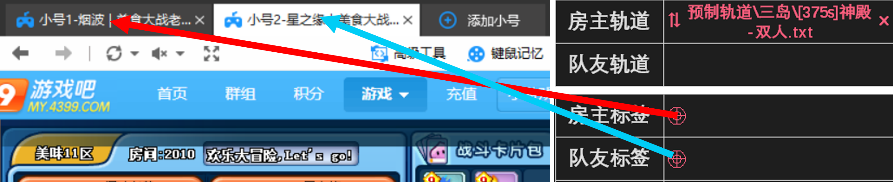
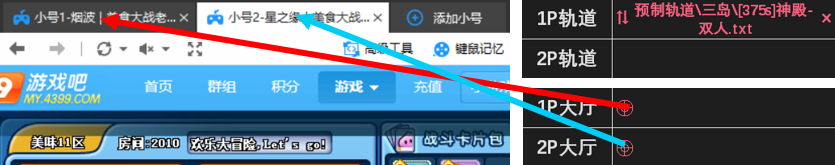
Track-Web 0.8.5

diff --git a/docs/.vuepress/navbar.ts b/docs/.vuepress/navbar.ts
@@ -14,5 +14,6 @@ export const navbar = defineNavbarConfig([
       { text: '第 5 章 执行器高级操作', link: '/notes/guide/Ch5/README.md' },
     ]
   },
+  { text: '帮助文档', link: 'https://doc.mstrack.cn/download/使用手册.pdf' },
   { text: '精华消息', link: '/notes/message/README.md' },
 ])

diff --git a/docs/.vuepress/theme/styles/custom.css b/docs/.vuepress/theme/styles/custom.css
@@ -63,3 +63,8 @@
   justify-content: center; /* 水平居中 */
   gap: 4px;               /* 图标与文字间距 */
 }
+
+.vp-home-hero.full {
+  display: flex; 
+  height: 500px !important;
+}

diff --git a/docs/notes/guide/Ch3/3.2.md b/docs/notes/guide/Ch3/3.2.md
@@ -10,8 +10,7 @@ permalink: /guide/f0kz7lyd/
 ![](./picture/3.2.0.1.png)
 
 ### 3.2.1 基本用法
-- 1. 设置好每项任务的轨道和卡组，然后抓取 1P 和 2P 的标签，在任意岛屿启动任务。程序将<span style="color: red;">依次执行每项勾选的任务</span>。支持的任务类型有：悬赏、勇士、跨服、魔塔、副本（假期/公会）、任务（公会/情侣/大赛）、主线（美味至星际）、番外（营地/沙漠/雷城/雪山/奇境）、
-特殊（签到/施肥/清包/双倍卡）。任务列表基本操作如下表：
+- 1. 设置好每项任务的轨道和卡组，然后抓取 1P 和 2P 的标签，在任意岛屿启动任务。程序将<span style="color: red;">依次执行每项勾选的任务</span>。支持的任务类型有：<span style="color: #0070C0;">悬赏、勇士、跨服、魔塔（含宠塔）、副本（假期/公会/巅峰对决）、任务（公会/情侣/大赛）、主线（美味至星际）、番外（营地/沙漠/雷城/雪山/奇境）、特殊（签到/施肥/清包/双倍卡）</span>。任务列表基本操作如下表：
 
 <table>
 <thead>
@@ -89,38 +88,45 @@ permalink: /guide/f0kz7lyd/
 
 - 6. 执行器右侧的 <img src="./picture/3.2.1.5.png" alt="" width="80" height="25"> 按钮可以为所有任务填写通用轨道。通用轨道所需卡槽截图均已内置，可直接使用空卡组全自动带卡。
 
-- 7. 高级任务可以同时执行 5 组，点击两侧箭头即可切换。点击任务名称可以修改。
+- 7. 执行器右侧的 <img src="./picture/3.2.1.6.png" alt="" width="80" height="25"> 按钮可以检查完成整个列表需要的钥匙、徽章和防御卡（不包含公会、情侣、大赛这三类需要识别的任务）。
 
-![](./picture/3.2.1.6.png)
+- 8. 高级任务可以同时执行 5 组，点击两侧箭头即可切换。点击任务名称可以修改。
+
+:::center
+![](./picture/3.2.1.7.png)
+:::
 
 - 如果还不够用，将整个轨道文件夹复制一份，即可同时启动不同文件夹中的执行器。
 
-### 3.2.2 签到施肥
+### 3.2.2 签到施肥（含温馨礼包）
 
 - 添加高级任务“特殊-签到”或“特殊-施肥”，房主、局数、轨道不用填写：
 
 ![](./picture/3.2.2.1.png)
 
-- 卡组“√”“×”表示该账号是否执行。签到包含每日签到和 VIP 签到，施肥包含浇水。
+- 卡组“√”“×”表示该账号是否执行。签到包含<span style="color: red;">每日签到、VIP签到、日常任务领奖和领取温馨礼包</span>，“施肥”包含<span style="color: red;">浇水和施肥</span>。
+
+- 领取温馨礼包前需要点击“点此设置温馨礼包”填写openid。进入公众号“美食大战老鼠”，打开“美食中心”（左图），点击右上角“...”，选择“复制链接”，将链接中“openid=”后面的字母填入温馨礼包设置面板（右图）。最多可以填写10个openid。
+
+<img src="./picture/3.2.2.2.png" alt="" width="208" height="268"><img src="./picture/3.2.2.3.png" alt="" width="525" height="235">
+
+- openid支持自定义。例如玩家想绑定<span style="color: red;">“1234579”</span>这个openid，只需用浏览器打开网址http://meishi.wechat.123u.com/meishi/index?openid=<span style="color: red;">1234579</span>，然后按提示绑定账号即可。
 
 ### 3.2.3 清理背包
 
-- 添加高级任务“特殊-清包”，即可自动清理背包空间，以免各项任务无法领取奖励。
+- 添加高级任务“特殊-清包”，即可自动清理背包空间（包括<span style="color: red;">删除道具</span>和<span style="color: red;">分解0星宝石</span>），以免各项任务无法领取奖励。如果账号有二级密码，请点击顶部“无二级密码”进行填写。
 
 ![](./picture/3.2.3.1.png)
 
-- 如果账号有二级密码，请点击顶部“无二级密码”进行填写。
-::: info 清包任务执行流程如下：
-1. 刷新游戏防止卡顿。
-2. 删除背包无用道具。
-3. 分解无用 0 星宝石（第 2/3 步若触发二级密码将自动输入）。
-4. 若后面还有任务，刷新后再执行，以恢复二级密码保护。
-:::
 - 在<span style="color: red;">用户参数\可删物品</span>文件夹内有截图的物品才会删除、分解。软件内置了 9 种可分解宝石的截图（如下图），其他需要删除的物品请用<span style="color: red;">用户参数\综合截图工具.exe </span>自行截图。
 
 ![](./picture/3.2.3.2.png)
 
 - 安全起见，请把贵重物品（如进化凭证）存入储藏室以防误删。
+
+- 添加高级任务“特殊-买魔塔”，即可自动购买魔塔次数。该功能同样需要二级密码。
+
+![](./picture/3.2.3.3.png)
 
 ### 3.2.4 使用双倍卡
 - 添加高级任务“特殊-双经卡”（或双爆卡），“局数”填张数，即可自动使用双倍卡。
@@ -179,8 +185,20 @@ permalink: /guide/f0kz7lyd/
 
 ### 3.2.9 定时启动
 
-- 假设现在是晚上 8 点，你希望 0 点后再启动任务，则可以设置定时 4 小时（左图）或定时到 0 点（中图）。定时到达后会刷新游戏以更新掉落次数，然后依次执行各项任务。
+- 假设现在是晚上8点，你希望0点后再启动任务，可以在列表开头添加一项定时任务（如下图）。通常还会跟一条<span style="color: red;">刷新</span>任务来刷新游戏（以便刷新公会任务和掉落次数）。
 
-![](./picture/3.2.9.1.png) ![](./picture/3.2.9.2.png) <img src="./picture/3.2.9.3.png" alt="" width="495" height="162">
+![](./picture/3.2.9.1.png)
 
-定时设置后点击<img src="./picture/3.2.9.4.png" alt="" width="46" height="23">开始计时，点击<img src="./picture/3.2.9.5.png" alt="" width="45" height="25">可取消定时启动。
+- 定时可以放在列表的中间或末尾，按效果分为两类：一是<span style="color: red;">强制定时</span>（下图第2条任务），时间到达后若之前的任务还未完成将被放弃。二是<span style="color: red;">非强制定时</span>（下图第4条任务，在时间前面加“~”表示），时间到达后若之前的任务还未完成将继续执行。
+
+![](./picture/3.2.9.2.png)
+
+- 对于上述列表，19点会强制开始执行第3条“蛇来”，不论第1条“神殿”有没有执行完毕。而到了19点30分，如果第3条还未执行完毕，则会等待执行完毕后再执行第5条。
+
+- <span style="color: red;">退服</span>指退出游戏，回到选服界面，一般放在列表末尾。任务完成后退服可以大幅降低CPU和内存占用。<span style="color: red;">关机</span>指关闭计算机，需要谨慎使用。
+
+![](./picture/3.2.9.3.png)
+
+- <span style="color: red;">循环</span>只能添加在列表末尾，执行到此处后从头开始执行。例如下面的列表表示从0点开始刷花园，刷到8点结束并退服，然后等待第2天0点继续循环。
+
+![](./picture/3.2.9.4.png)

diff --git a/docs/README.md b/docs/README.md
@@ -31,40 +31,30 @@ config:
           text: 下载
           link: /guide/u1pv5ryr/
 
-  -
-    type: image-text
-    title: 功能
-    description: 内置丰富的功能，满足网站一般需求。
-    image: '/ui.svg'
-    list:
-      -
-        title: 文章信息
-        description: 为文章添加标签、分类、字数统计、阅读时间、写作日期等信息。
-      -
-        title: 评论
-        description: 支持 4 种评论系统，你可以自由选择符合你的需求的评论系统。
-      -
-        title: 搜索
-        description: 支持基于 minisearch 的本地搜索， 支持Algolia搜索。
-      -
-        title: 加密
-        description: 支持全站加密、部分加密（加密目录、加密文章）。
-      -
-        title: 代码复制
-        description: 一键复制代码块中的内容
-  -
-    type: text-image
-    title: 博客
-    description: 主题默认支持博客，生成你的个人博客。
-    image: '/advanced.svg'
-    list:
-      -
-        title: 文章列表
-        description: 通过文章写作日期，自动排序并生成博客文章列表页。
-      -
-        title: 博主信息
-        description: 自定义名称、座右铭、头像，社交媒体链接。
-      -
-        title: 标签、归档
-        description: 自动生成标签页，为文章根据年份进行归档。
+  - 
+    type: custom
 ---
+<!-- 轨道编辑器与执行器 vs 按键精灵脚本 核心优势对比表 -->
+
+<div style="display: flex; justify-content: center; font-size: 1.2em;">
+  <div style="width: 90%;">
+
+| **我们的优势** | **轨道核心功能** | **按键精灵对比** |
+|-----------------------|-----------------------------------------------------------------------------|-------------------------------------------|
+| **专精适配** | 🎯深度适配《美食大战老鼠》机制｜波次检测｜图像识别｜火苗动态控制 | 通用脚本｜兼容性差｜策略单一 |
+| **零代码操作** | 🖱拖拽式轨道设计｜预制方案一键调用｜手动操作录制自动化 | 需编程基础｜调试复杂｜依赖代码逻辑 |
+| **智能决策** | 🧠条件放卡（火苗/BOSS/波次）｜优先队列资源分配｜自动补阵容错 | 机械执行｜无动态响应｜容错率低 |
+| **多任务并行** | ⚡5组任务同步执行｜双人协同刷图｜定时/循环/关机高级控制 | 单线程运行｜效率低下｜功能单一 |
+| **强大生态支持** | 🌐Q群实时答疑｜一键报错日志｜版本持续更新｜预制战术共享 | 孤立脚本｜维护困难｜版本滞后 |
+
+  </div>
+</div>
+
+---
+
+### **核心亮点**  
+- 🎯 **精准专精**：专为《美食大战老鼠》定制，策略覆盖无死角  
+- 🖱 **图形交互**：拖拽即完成复杂逻辑，操作零门槛  
+- 🧠 **智能核心**：动态响应战场变化，AI级决策效率  
+- ⚡ **效率爆炸**：多线并发执行，时间利用率MAX  
+- 🌐 **生态闭环**：社群共建方案，功能永不过时   

diff --git a/docs/notes/guide/Ch4/4.4.md b/docs/notes/guide/Ch4/4.4.md
@@ -18,7 +18,7 @@ permalink: /guide/v62bwilf/
 | <span style="color: red;">火苗</span> | <span style="color: #0070C0;">火苗达到设定数值后放卡。</span><br>例如冰沙可设置<span style="color: red;">火苗≥1000 </span>才放置，以免用冰后严重缺火。 |
 | <span style="color: red;">波次</span> | <span style="color: #0070C0;">波次达到设定数值后放卡，可以用<span style="color: red;"> a.b </span>表示第 a 波第 b 小波。</span><br>例如狮子座可设置<span style="color: red;">波次≥1 </span>才放置，在前期没有鼹鼠时节约火苗。 |
 | <span style="color: red;">卡片</span> | <span style="color: #0070C0;">场上特定卡片数量达到设定数值后放卡。</span><br>例如糖葫芦设置<span style="color: red;">卡片【海星】数量≥3</span>，则放满 3 个海星才会放糖葫芦。 |
-| <span style="color: red;">图像</span> | <span style="color: #0070C0;">场上特定图像数量达到设定数值后放卡。</span><br>例如草扇设置<span style="color: red;">图像【神风】数量≥1</span>，则神风出现时才会放草扇。<br>所用图像需要自行截取（[详见 4.4.3 自定图像的识别与截取](#_4-4-3-自定图像的识别与截取)）。 |
+| <span style="color: red;">图像</span> | <span style="color: #0070C0;">场上特定图像数量达到设定数值后放卡。</span><br>例如草扇设置<span style="color: red;">图像【神风】数量≥1</span>，则神风出现时才会放草扇。<br>所用图像需要自行截取（详见 [4.4.3 自定图像的识别与截取](#_4-4-3-自定图像的识别与截取)）。 |
 
 - 设置多项条件时，所有条件同时满足才视为条件达成。
 

diff --git a/docs/notes/guide/Ch1/1.2.md b/docs/notes/guide/Ch1/1.2.md
@@ -4,11 +4,11 @@ createTime: 2025/04/08 13:36:58
 permalink: /guide/shknjz87/
 ---
 
-- 打开后能看到两个人物位置的轨道是<span style="color: red;">双人轨道</span>，例如<span style="color: red;">[375s]神殿-双人.txt（左图）</span>。将双人轨道拖入<span style="color: red;">房主轨道</span> ，同时抓取房主和队友标签（右图），即可由房主带队友刷图。
+- 打开后能看到两个人物位置的轨道是<span style="color: red;">双人轨道</span>，例如<span style="color: red;">[375s]神殿-双人.txt（左图）</span>。将双人轨道拖入<span style="color: red;">1P轨道</span>，同时抓取1P和2P大厅（右图），即可由1P带2P刷图。
 
 ![](./picture/1.2.0.1.png) <img src="./picture/1.2.0.2.png" alt="" width="542" height="111">
 
-- 也可以同时填写房主和队友轨道（右图），此时房主和队友都按各自的轨道放卡。预制轨道中文件名带+的是<span style="color: red;">队友专属轨道</span>（左图），这类轨道必须和对应的房主轨道一起使用。 
+- 也可以同时填写1P和2P轨道（右图），此时1P和2P都按各自的轨道放卡。预制轨道中文件名带+的是<span style="color: red;">2P专属轨道</span>（左图），这类轨道必须和对应的1P轨道一起使用。 
 
 ![](./picture/1.2.0.3.png) ![](./picture/1.2.0.4.png)
 

diff --git a/docs/notes/guide/Ch5/5.3.md b/docs/notes/guide/Ch5/5.3.md
@@ -8,9 +8,11 @@ permalink: /guide/cjo0xlx8/
 
 - 为了节约卡组，软件允许用户将某卡槽留空，执行不同轨道时携带不同的防御卡。例如希望以下两个轨道共用一个卡组，则只需将前四张卡保存至卡组，卡槽5留空：
 
-<img src="./picture/5.3.0.1.png" alt="" width="245" height="61"> <img src="./picture/5.3.0.2.png" alt="" width="245" height="60"> <img src="./picture/5.3.0.3.png" alt="" width="245" height="59">
+:::center
+<img src="./picture/5.3.0.1.png" alt="" width="225" height="55"> <img src="./picture/5.3.0.2.png" alt="" width="225" height="55"> <img src="./picture/5.3.0.3.png" alt="" width="225" height="55">
 
-<span style="color: red;"><span style="margin-left: 10ch;"></span>卡组1<span style="margin-left: 22ch;"></span>卡组2<span style="margin-left: 21ch;"></span>卡组3</span>
+<span style="color: red;"><span style="margin-left: 2ch;"></span>轨道1<span style="margin-left: 20ch;"></span>轨道2<span style="margin-left: 17ch;"></span>保存的卡组</span>
+:::
 
 - 然后使用<span style="color: red;">用户参数\综合截图工具.exe </span>的<span style="color: red;">自定卡槽</span>模块截取酒杯灯和换气扇的图片，并重命名截图使之与编辑器中的卡片名一致：
 

diff --git a/docs/notes/guide/Ch1/1.3.md b/docs/notes/guide/Ch1/1.3.md
@@ -10,7 +10,7 @@ permalink: /guide/4w7vdo0z/
 ![](./picture/1.3.0.1.png)
 
 ### Q2. 如何用 360 游戏大厅登录美食？
-- 答：去官网 http://360game.360.cn 或 [点击下载360游戏大厅（轨道稳定适配此版本）](https://doc.mstrack.cn/download/360game5_setup.exe) 下载 360 游戏大厅，打开后依次点击<span style="color: red;">我的</span>→<span style="color: red;">添加游戏</span>，输入美食大战老鼠网址。各平台网址如下：<br>
+- 答：在群文件“轨道编辑器”文件夹下载360游戏大厅安装包 <span style="color: red;">360game5_setup.exe </span>并安装，或 [点击下载360游戏大厅（轨道稳定适配此版本）](https://doc.mstrack.cn/download/360game5_setup.exe) 下载 360 游戏大厅，打开后依次点击<span style="color: red;">我的</span>→<span style="color: red;">添加游戏</span>，输入美食大战老鼠网址。各平台网址如下：<br>
 -- <span style="color: red;">**4399**</span> https://my.4399.com/yxmsdzls/wd-air <br>
 -- <span style="color: red;">**QQ 空间**</span> https://game.qzone.qq.com/13057?via=QZ.MYAPP  <br>
 -- <span style="color: red;">**QQ 游戏大厅**</span> http://qqgame.qq.com/webappframe/?appid=10802 <br>

diff --git a/docs/notes/guide/Ch2/2.2.md b/docs/notes/guide/Ch2/2.2.md
@@ -31,7 +31,7 @@ permalink: /guide/932mbqdu/
 （海星设置了从第 30 秒开始放）
 :::
 
-- 极限成阵是无条件的自动轨道，只要卡槽亮起就立即放置，以最快速度完成阵型。如果再激活补阵模式则软件会不断修补被毁的卡片。<span style="color: #0070C0;">大多数关卡只需激活每张卡的补阵+极限成阵（简称<span style="color: red;">极补</span>），即可完成轨道制作。</span>一些较难关卡不能无脑极补，而是要根据火苗、出怪、场上物件等信息来决定放卡时机和放卡位置，可使用 [4.4 条件放卡](/Track-Web/guide/v62bwilf/) 。
+- 极限成阵是无条件的自动轨道，只要卡槽亮起就立即放置，以最快速度完成阵型。如果再激活补阵模式则软件会不断修补被毁的卡片。<span style="color: #0070C0;">大多数关卡只需激活每张卡的补阵+极限成阵（简称<span style="color: red;">极补</span>），即可完成轨道制作。</span>一些较难关卡不能无脑极补，而是要根据火苗、出怪、场上物件等信息来决定放卡时机和放卡位置，这时可使用 [4.4 条件放卡](/Track-Web/guide/v62bwilf/) 。
 
 ### 2.2.3 录制轨道
 

diff --git a/docs/notes/guide/Download.md b/docs/notes/guide/Download.md
@@ -8,14 +8,14 @@ permalink: /guide/u1pv5ryr/
 ---
 
 ## 下载轨道编辑器
-[下载轨道安装包!（若提示是否信任文件请选择信任）](https://doc.mstrack.cn/download/轨道编辑器v4.7.1安装包.exe)<br>
-[下载轨道压缩包（下载不了安装包点此）](https://doc.mstrack.cn/download/轨道编辑器v4.7.1安装包.zip)<br>
+[下载轨道安装包!（若提示是否信任文件请选择信任）](https://doc.mstrack.cn/download/轨道编辑器v4.8.1安装包.exe)<br>
+[下载轨道压缩包（下载不了安装包点此）](https://doc.mstrack.cn/download/轨道编辑器v4.8.1安装包.zip)<br>
 [下载360游戏大厅（轨道稳定适配此版本）](https://doc.mstrack.cn/download/360game5_setup.exe)<br>
 [dll修复工具（若运行轨道时提示缺dll请下载）](https://doc.mstrack.cn/download/dll修复工具.zip)<br>
 [等线字体（若不能正确显示等线字体请下载）](https://doc.mstrack.cn/download/等线字体.zip)
 
 ## 轨道交流群
-- 2群：815181032
-- 3群：836426865
+<!-- - 2群：815181032
+- 3群：836426865 -->
 - 4群：783458043
 - 安装程序在QQ群文件→轨道编辑器，运行时若提示缺dll请下载同路径的“dll修复工具”

diff --git a/docs/notes/guide/Ch2/2.1.md b/docs/notes/guide/Ch2/2.1.md
@@ -94,7 +94,7 @@ permalink: /guide/qvufttbz/
 <table>
 <tbody>
   <tr>
-    <td><span style="color: red;">补阵：</span>单击卡槽右上角激活。补阵模式下，该卡每次放置时会放在阵型顺序中第一个空缺的位置。<span style="color: #0070C0;">该功能可以在卡片漏放或被毁时修复阵型，也能用于移动地图的布阵。一般推荐开启。</span>详见 <a href="/Track-Web/guide/mzdpqza3/">5.3 补阵原理与调控</a> 。</td>
+    <td><span style="color: red;">补阵：</span>单击卡槽右上角激活。补阵模式下，该卡每次放置时会放在阵型顺序中第一个空缺的位置。<span style="color: #0070C0;">该功能可以在卡片漏放或被毁时修复阵型，也能用于移动地图的布阵。一般推荐开启。</span>详见 <a href="/Track-Web/guide/mzdpqza3/">5.1 补阵原理与调控</a> 。</td>
     <td><img src="./picture/2.1.2.1.png" 
       style="vertical-align: middle; ">
     </td>

diff --git a/docs/notes/guide/Ch4/4.6.md b/docs/notes/guide/Ch4/4.6.md
@@ -15,7 +15,8 @@ permalink: /guide/p3o07xvn/
 
 ![](./picture/4.6.1.1.png)
 
-::: info 右击防御卡背包中的卡片进入编辑界面，如图所示。
+::: info 
+右击防御卡背包中的卡片进入编辑界面，如图所示。<br>
 <span style="color: red;">名称：</span>单击修改。默认防御卡请勿改名，否则会失去卡片特性。<br>
 <span style="color: red;">层级：</span>有承载、护罩、普通、升级、冷却、特殊6种卡片层级。<br>
 <span style="color: red;">耗能：</span>单击数值切换是否带“+”。<br>
